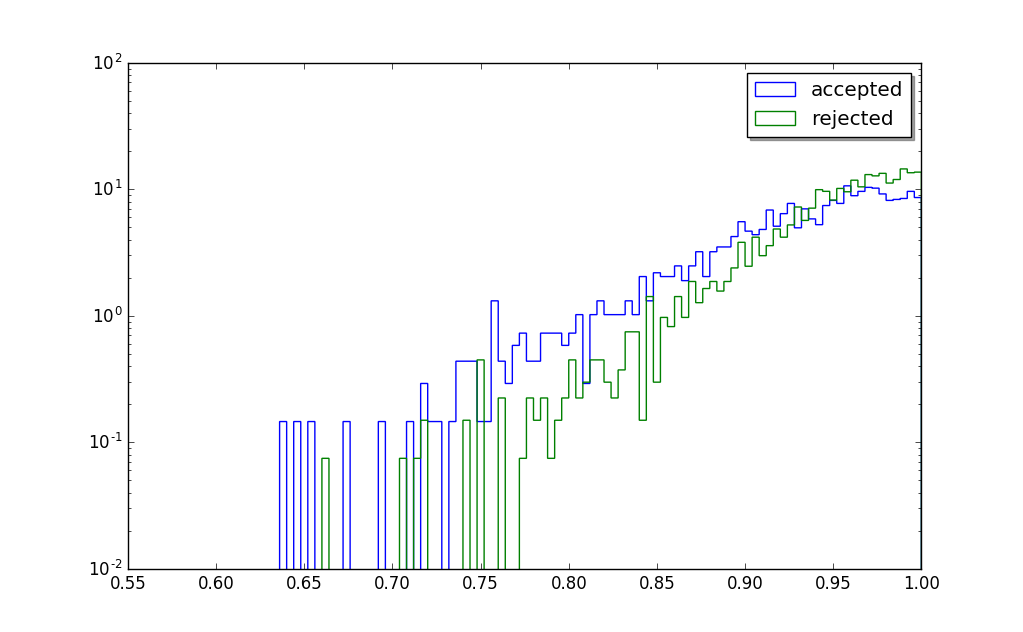
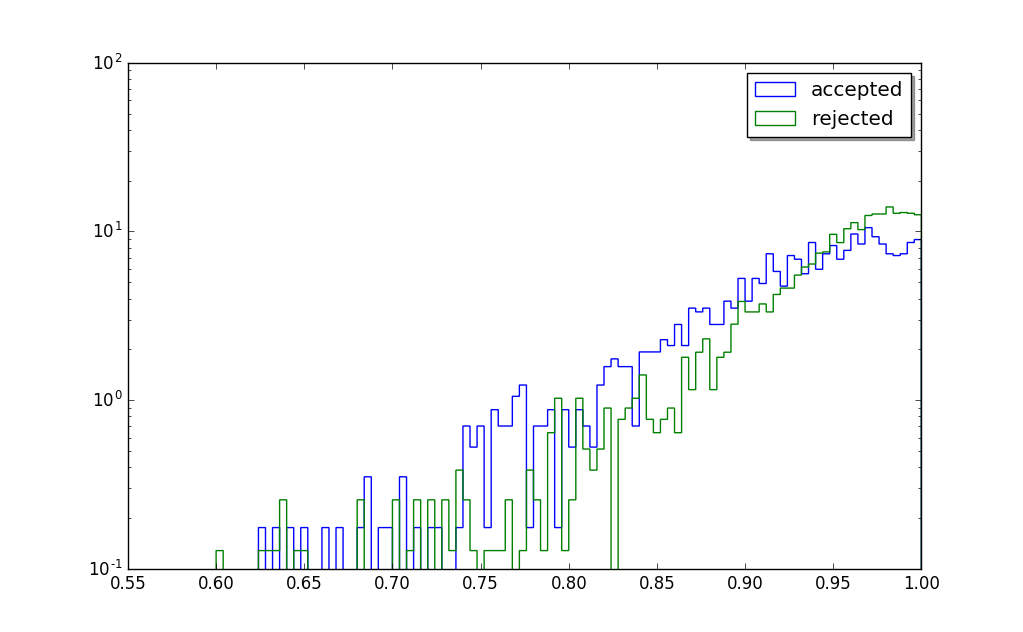
Fine tune some cuts

diff --git a/Code/Cuts.py b/Code/Cuts.py
@@ -39,7 +39,7 @@ savefig('dm-decayTime-correlation')
 pl.close()
 
 
-plot_compare(filtered, rejected, 'decayTime', 'decayTime', (0,10e-12))
+plot_compare(filtered, rejected, 'decayTime', 'decayTime', (0, 10e-12))
 plot_compare(filtered, rejected, 'pD0_t', 'pd0-t')
 plot_compare(filtered, rejected, 'pPslow', 'pslow')
 plot_compare(filtered, rejected, 'pPslow_t', 'pslow-t')
@@ -53,19 +53,20 @@ plot_compare(filtered, rejected, 'psIP_log', 'ps-impact-parameter')
 plot_compare(filtered, rejected, 's_z', 's_z', (-200, 200))
 plot_compare(filtered, rejected, 'costheta', 'costheta', (.6,1))
 
-filtered, rejected = cut(filtered, rejected, lambda d: 2500 <= d.pD0_t)
+
+filtered, rejected = cut(filtered, rejected, lambda d: 3500 <= d.pD0_t)
 filtered, rejected = cut(filtered, rejected, lambda d: 2500 <= d.pDstar_t)
-filtered, rejected = cut(filtered, rejected, lambda d: 300 <= d.pPslow_t)
-filtered, rejected = cut(filtered, rejected, lambda d: 750 <= d.pk_t)
-filtered, rejected = cut(filtered, rejected, lambda d: 750 <= d.pp_t)
+filtered, rejected = cut(filtered, rejected, lambda d: 200 <= d.pPslow_t)
+filtered, rejected = cut(filtered, rejected, lambda d: 500 <= d.pk_t)
+filtered, rejected = cut(filtered, rejected, lambda d: 500 <= d.pp_t)
 
-filtered, rejected = cut(filtered, rejected, lambda d: -2 <= d.d0IP_log <= 0.8)
-filtered, rejected = cut(filtered, rejected, lambda d: 0 <= d.kIP_log <= 3)
-filtered, rejected = cut(filtered, rejected, lambda d: 0 <= d.pIP_log <= 3)
-filtered, rejected = cut(filtered, rejected, lambda d: 0 <= d.psIP_log <= 2)
+filtered, rejected = cut(filtered, rejected, lambda d: -2 <= d.d0IP_log <= 1)
+filtered, rejected = cut(filtered, rejected, lambda d: -1 <= d.kIP_log <= 3)
+filtered, rejected = cut(filtered, rejected, lambda d: -1 <= d.pIP_log <= 3)
+filtered, rejected = cut(filtered, rejected, lambda d: -1 <= d.psIP_log <= 2)
 
-filtered, rejected = cut(filtered, rejected, lambda d:  5 <= d.s_z <= 120)
-filtered, rejected = cut(filtered, rejected, lambda d:  0.9 <= d.costheta)
+filtered, rejected = cut(filtered, rejected, lambda d:  10 <= d.s_z <= 120)
+filtered, rejected = cut(filtered, rejected, lambda d:  0.95 <= d.costheta)
 
 
 

diff --git a/Code/Lifetime.py b/Code/Lifetime.py
@@ -183,7 +183,7 @@ class CandidateEvent(object):
 
 	@lazy_property.LazyProperty
 	def costheta(self):
-		p, r = momentum_toSI(self.pDstar_t), (self.d0Decay-self.interaction)*1e-3
+		p, r = self.pDstar, self.dstarDecay-self.interaction
 		return dot(p, r) / (magnitude(p) * magnitude(r))
 
 
@@ -260,7 +260,7 @@ def plotData(data):
 
 
 	# decay time dist
-	times = [d.decayTime*1e12 for d in data if d.decayTime < 10e-12]
+	times = [d.decayTime*1e12 for d in data if d. decayTime < 10e-12]
 	
 	newfig()
 	pl.hist(times, bins=100, range=(0, 50))
